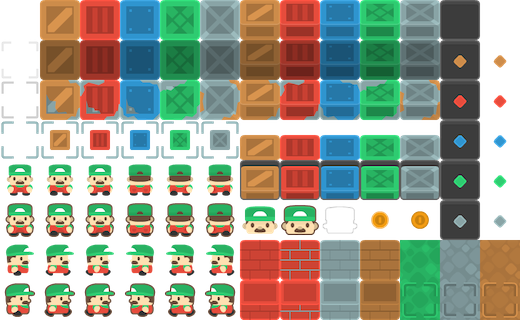
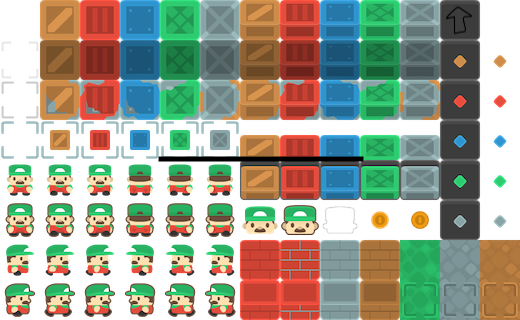
Add one-way-door-actor

Changed region(s): [[0.3077, 0.4688, 0.7077, 0.5312], [0.8615, 0.0312, 0.9231, 0.0625], [0.8615, 0.0938, 0.8923, 0.125]]

diff --git a/src/game/tiles/feature-map-extractor.ts b/src/game/tiles/feature-map-extractor.ts
@@ -10,6 +10,7 @@ import {configuration} from '../constants/configuration';
 import {OilyFloorActor} from '@/game/actors/oily-floor-actor';
 import {TileDepthCalculator} from '@/game/tiles/tile-depth-calculator';
 import type {OrientedTile, StaticMap} from '@/game/tiles/standard-sokoban-annotation-translator';
+import {OneWayDoorActor} from '@/game/actors/one-way-door-actor';
 
 export type TileMap = {
     staticMap: StaticMap;
@@ -18,6 +19,7 @@ export type TileMap = {
     springs: SpringActor[];
     targets: TargetActor[];
     oilyFloors: OilyFloorActor[];
+    oneWayDoors: OneWayDoorActor[];
 };
 
 export class FeatureMapExtractor {
@@ -37,11 +39,12 @@ export class FeatureMapExtractor {
     public extract(): TileMap {
         const hero = this.extractHero()!;
         const boxes = this.extractBoxes();
-        const targets = this.detectTargets(boxes);
-        const springs = this.detectFeature(Tiles.spring, (params) => new SpringActor(params)) as SpringActor[];
-        const oilyFloors = this.detectFeature(Tiles.oily, (params) => new OilyFloorActor(params)) as OilyFloorActor[];
+        const targets = this.detectFeature(Tiles.target, boxes, (params) => new TargetActor(params)) as TargetActor[];
+        const springs = this.detectFeature(Tiles.spring, boxes, (params) => new SpringActor(params)) as SpringActor[];
+        const oilyFloors = this.detectFeature(Tiles.oily, boxes, (params) => new OilyFloorActor(params)) as OilyFloorActor[];
+        const oneWayDoors = this.detectFeature(Tiles.oneWayDoor, boxes, (params) => new OneWayDoorActor(params)) as OneWayDoorActor[];
 
-        this.addFloors([...targets, ...springs, ...oilyFloors] as GameActor[]);
+        this.addFloors([...targets, ...springs, ...oilyFloors, ...oneWayDoors] as GameActor[]);
 
         const featurelessMap: StaticMap = {
             tiles: this.featurelessMap.tiles,
@@ -54,7 +57,8 @@ export class FeatureMapExtractor {
             boxes: boxes,
             targets: targets,
             springs: springs,
-            oilyFloors: oilyFloors
+            oilyFloors: oilyFloors,
+            oneWayDoors: oneWayDoors
         };
 
     }
@@ -119,7 +123,7 @@ export class FeatureMapExtractor {
         return targets;
     }
 
-    private detectFeature(tileCode: Tiles, constructorFunction: (params: any) => GameActor) {
+    private detectFeature(tileCode: Tiles, boxes: BoxActor[], constructorFunction: (params: any) => GameActor) {
         const features: GameActor[] = [];
         this.featurelessMap.tiles = this.featurelessMap.tiles
             .map((line, y) => line
@@ -131,6 +135,7 @@ export class FeatureMapExtractor {
                             scene: this.scene,
                             sprite: sprite,
                             tilePosition: tilePosition,
+                            boxes: boxes,
                             orientation: tile.orientation!,
                             id: this.actorCounter++
                         });

diff --git a/src/game/controllers/movement-orchestrator.ts b/src/game/controllers/movement-orchestrator.ts
@@ -6,6 +6,7 @@ import {HeroMovementHandler} from '@/game/controllers/hero-movement-handler';
 import {SpringMovementHandler} from '@/game/controllers/spring-movement-handler';
 import {OilyFloorMovementHandler} from '@/game/controllers/oily-floor-movement-handler';
 import type {FeatureMovementHandler} from '@/game/controllers/feature-movement-handler';
+import {OneWayDoorMovementHandler} from '@/game/controllers/one-way-door-movement-handler';
 import type {OrientedTile, StaticMap} from '@/game/tiles/standard-sokoban-annotation-translator';
 
 export type Movement = {
@@ -47,13 +48,21 @@ export class MovementOrchestrator {
         this.movementHandlers.push(...this.findTileOrientedPositions(Tiles.spring)
             .map(orientedPosition =>
                 new SpringMovementHandler({
-                    spring: orientedPosition,
+                    position: orientedPosition.point,
+                    orientation: orientedPosition.orientation,
                     coordinator: this
                 })));
         this.movementHandlers.push(...this.findTileOrientedPositions(Tiles.oily)
             .map(orientedPosition =>
                 new OilyFloorMovementHandler({
                     position: orientedPosition.point,
+                    coordinator: this
+                })));
+        this.movementHandlers.push(...this.findTileOrientedPositions(Tiles.oneWayDoor)
+            .map(orientedPosition =>
+                new OneWayDoorMovementHandler({
+                    position: orientedPosition.point,
+                    orientation: orientedPosition.orientation,
                     coordinator: this
                 })));
     }
@@ -127,27 +136,14 @@ export class MovementOrchestrator {
 
     public getFeatureAtPosition(position: Point): OrientedTile[] {
         const result: OrientedTile[] = [];
-        if (this.hero?.nextPosition.isEqualTo(position)) {
-            result.push({
-                code: Tiles.hero,
-                orientation: undefined
-            });
-        }
-        if (this.hero?.currentPosition.isEqualTo(position)) {
+        if (this.hero?.nextPosition.isEqualTo(position) || this.hero?.currentPosition.isEqualTo(position)) {
             result.push({
                 code: Tiles.hero,
                 orientation: undefined
             });
         }
         if (this.boxes
-            ?.some(box => box.nextPosition.isEqualTo(position))) {
-            result.push({
-                code: Tiles.box,
-                orientation: undefined
-            });
-        }
-        if (this.boxes
-            ?.some(box => box.currentPosition.isEqualTo(position))) {
+            ?.some(box => box.nextPosition.isEqualTo(position) || box.currentPosition.isEqualTo(position))) {
             result.push({
                 code: Tiles.box,
                 orientation: undefined

diff --git a/src/game/controllers/game-controller.ts b/src/game/controllers/game-controller.ts
@@ -8,6 +8,7 @@ import type {TileMap} from '@/game/tiles/feature-map-extractor';
 import type {SolutionOutput} from '@/game/solver/sokoban-solver';
 import {MovementAnalyser} from '@/game/solver/movement-analyser';
 import type {OilyFloorActor} from '@/game/actors/oily-floor-actor';
+import type {OneWayDoorActor} from '@/game/actors/one-way-door-actor';
 import type {Movement, MovementOrchestratorOutput} from '@/game/controllers/movement-orchestrator';
 import {MovementOrchestrator} from '@/game/controllers/movement-orchestrator';
 import type {StaticMap} from '@/game/tiles/standard-sokoban-annotation-translator';
@@ -22,6 +23,7 @@ export class GameController {
     private readonly springs: SpringActor[];
     private readonly oilyFloors: OilyFloorActor[];
     private readonly targets: TargetActor[];
+    private readonly oneWayDoors: OneWayDoorActor[];
     private readonly movementAnalyser: MovementAnalyser;
     private readonly nextMoves: Actions[];
 
@@ -34,6 +36,7 @@ export class GameController {
         this.boxes = config.tileMap.boxes;
         this.springs = config.tileMap.springs;
         this.oilyFloors = config.tileMap.oilyFloors;
+        this.oneWayDoors = config.tileMap.oneWayDoors;
         this.targets = config.tileMap.targets;
         this.tileMap = config.tileMap.staticMap;
         this.nextMoves = config.solution?.actions! || [];
@@ -107,6 +110,7 @@ export class GameController {
         this.updateActorsCoveringSituation(features, this.targets);
         this.updateActorsCoveringSituation(features, this.springs);
         this.updateActorsCoveringSituation(features, this.oilyFloors);
+        this.updateActorsCoveringSituation(features, this.oneWayDoors);
         await Promise.all(animationsPromises);
 
         this.animationsAreOver = true;

diff --git a/src/game/actors/one-way-door-actor.ts b/src/game/actors/one-way-door-actor.ts
@@ -1,0 +1,54 @@
+import type {Point} from '@/game/math/point';
+import type Phaser from 'phaser';
+import {Tiles} from '@/game/tiles/tiles';
+import type {GameActor} from '@/game/actors/game-actor';
+import type {Directions} from '@/game/constants/directions';
+
+export class OneWayDoorActor implements GameActor {
+    private readonly scene: Phaser.Scene;
+    private readonly tilePosition: Point;
+    private readonly sprite: Phaser.GameObjects.Sprite;
+    private readonly id: number;
+    private covered: boolean;
+
+    constructor(config: { tilePosition: Point; sprite: Phaser.GameObjects.Sprite; scene: Phaser.Scene, id: number }) {
+        this.id = config.id;
+        this.scene = config.scene;
+        this.tilePosition = config.tilePosition;
+        this.sprite = config.sprite;
+        this.covered = false;
+    }
+
+    public isCovered(): boolean {
+        return this.covered;
+    }
+
+    public onUncover(): void {
+        this.covered = false;
+    }
+
+    public onCover(): void {
+        this.covered = true;
+    }
+
+    public getId(): number {
+        return this.id;
+    }
+
+    public getSprite(): Phaser.GameObjects.Sprite {
+        return this.sprite;
+    }
+
+    public getTileCode(): Tiles {
+        return Tiles.oneWayDoor;
+    }
+
+    public getTilePosition(): Point {
+        return this.tilePosition;
+    }
+
+    public getOrientation(): Directions | undefined {
+        return undefined;
+    }
+
+}

diff --git a/src/game/controllers/one-way-door-movement-handler.ts b/src/game/controllers/one-way-door-movement-handler.ts
@@ -1,0 +1,38 @@
+import {Tiles} from '@/game/tiles/tiles';
+import type {Point} from '@/game/math/point';
+import type {Directions} from '@/game/constants/directions';
+import type {MovementOrchestrator} from '@/game/controllers/movement-orchestrator';
+import type {ActData, FeatureMovementHandler} from '@/game/controllers/feature-movement-handler';
+
+export class OneWayDoorMovementHandler implements FeatureMovementHandler {
+    private readonly position: Point;
+    private readonly coordinator: MovementOrchestrator;
+    private readonly orientation: Directions;
+
+    constructor(config: { position: Point, orientation: Directions, coordinator: MovementOrchestrator }) {
+        this.position = config.position;
+        this.orientation = config.orientation;
+        this.coordinator = config.coordinator;
+    }
+
+    public act(actData: ActData): boolean {
+        return false;
+    }
+
+    public allowEnteringMovement(direction: Directions): boolean {
+        return this.orientation === direction;
+    }
+
+    public allowLeavingMovement(direction: Directions): boolean {
+        return this.orientation === direction;
+    }
+
+    public getTile(): Tiles {
+        return Tiles.oneWayDoor;
+    }
+
+    public getPosition(): Point {
+        return this.position;
+    }
+
+}

diff --git a/src/game/controllers/spring-movement-handler.ts b/src/game/controllers/spring-movement-handler.ts
@@ -2,16 +2,16 @@ import {Tiles} from '@/game/tiles/tiles';
 import type {Point} from '@/game/math/point';
 import {Directions, getOpositeDirectionOf} from '@/game/constants/directions';
 import type {ActData, FeatureMovementHandler} from '@/game/controllers/feature-movement-handler';
-import type {Movement, MovementOrchestrator, MovementOrchestratorOutput, OrientedPoint} from '@/game/controllers/movement-orchestrator';
+import type {MovementOrchestrator} from '@/game/controllers/movement-orchestrator';
 
 export class SpringMovementHandler implements FeatureMovementHandler {
     private readonly position: Point;
     private readonly orientation: Directions;
     private readonly coordinator: MovementOrchestrator;
 
-    constructor(config: { spring: OrientedPoint, coordinator: MovementOrchestrator }) {
-        this.position = config.spring.point;
-        this.orientation = config.spring.orientation;
+    constructor(config: { position: Point, orientation: Directions, coordinator: MovementOrchestrator }) {
+        this.position = config.position;
+        this.orientation = config.orientation;
         this.coordinator = config.coordinator;
     }
 

diff --git a/src/game/tiles/tiles.ts b/src/game/tiles/tiles.ts
@@ -8,10 +8,10 @@ export enum Tiles {
     boxOnTarget = 7,
     heroOnTarget = 71,
     spring = 73,
-    oily = 74,
+    oily = 49,
+    oneWayDoor= 11,
     // not mapped yet
     treadmil,
-    oneWayDoor,
 }
 
 export const getTileFromChar = (char: string): Tiles => {

diff --git a/src/game/tiles/tile-depth-calculator.ts b/src/game/tiles/tile-depth-calculator.ts
@@ -11,6 +11,8 @@ export class TileDepthCalculator {
                 return -90000;
             case Tiles.oily:
                 return -80000;
+            case Tiles.oneWayDoor:
+                return -80000;
         }
         return (y * 100) + modifier;
     };

diff --git a/src/game/levels/levels.ts b/src/game/levels/levels.ts
@@ -24,7 +24,7 @@ export const levels: Level[] = [
 #5 o4 #
 #5 o4 #
 #5 o$   #
-#     o@.  #
+# ud   o@.  #
 #5 o*   #
 #5 o4 #
 #4 *o4 #
